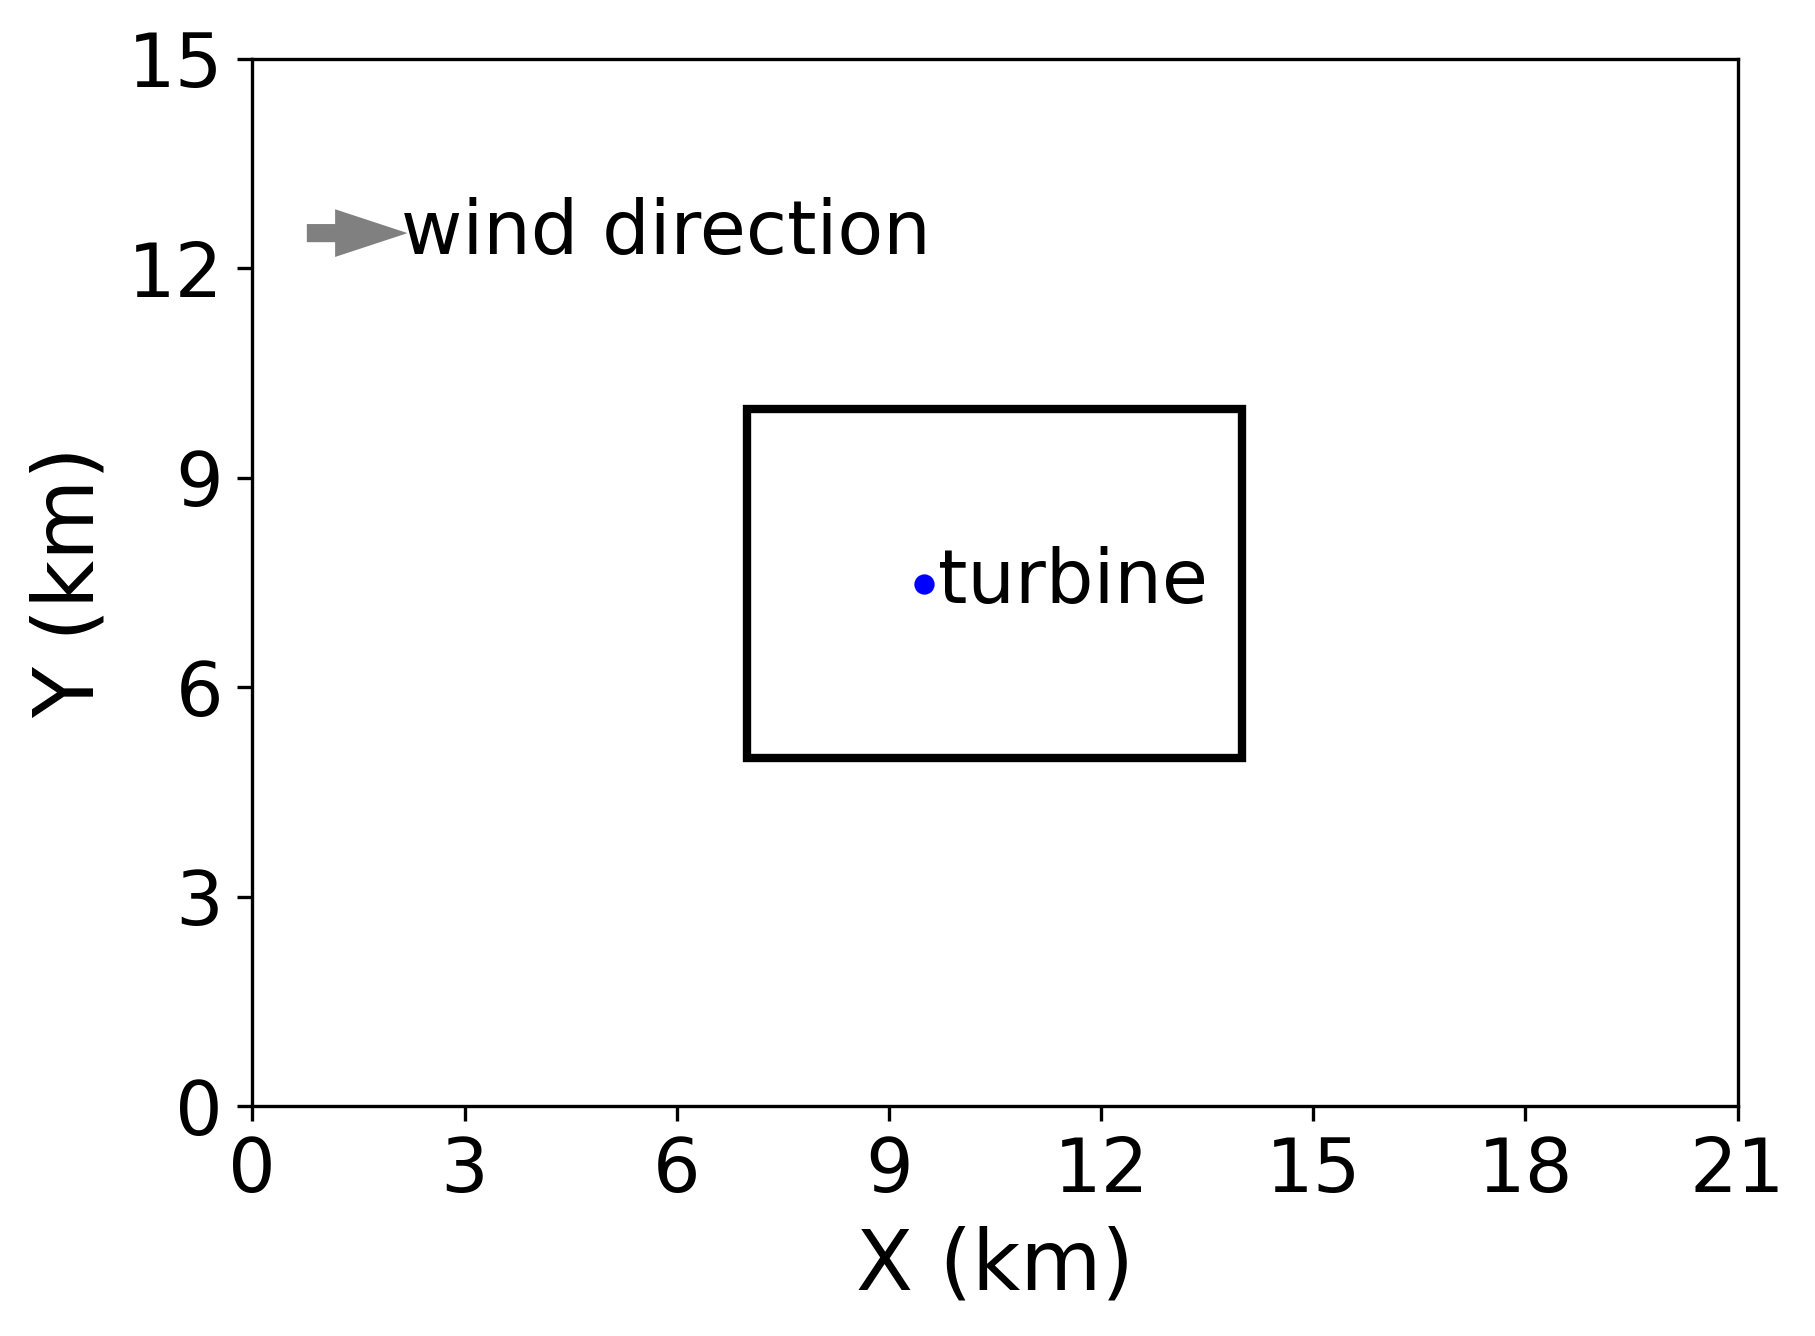
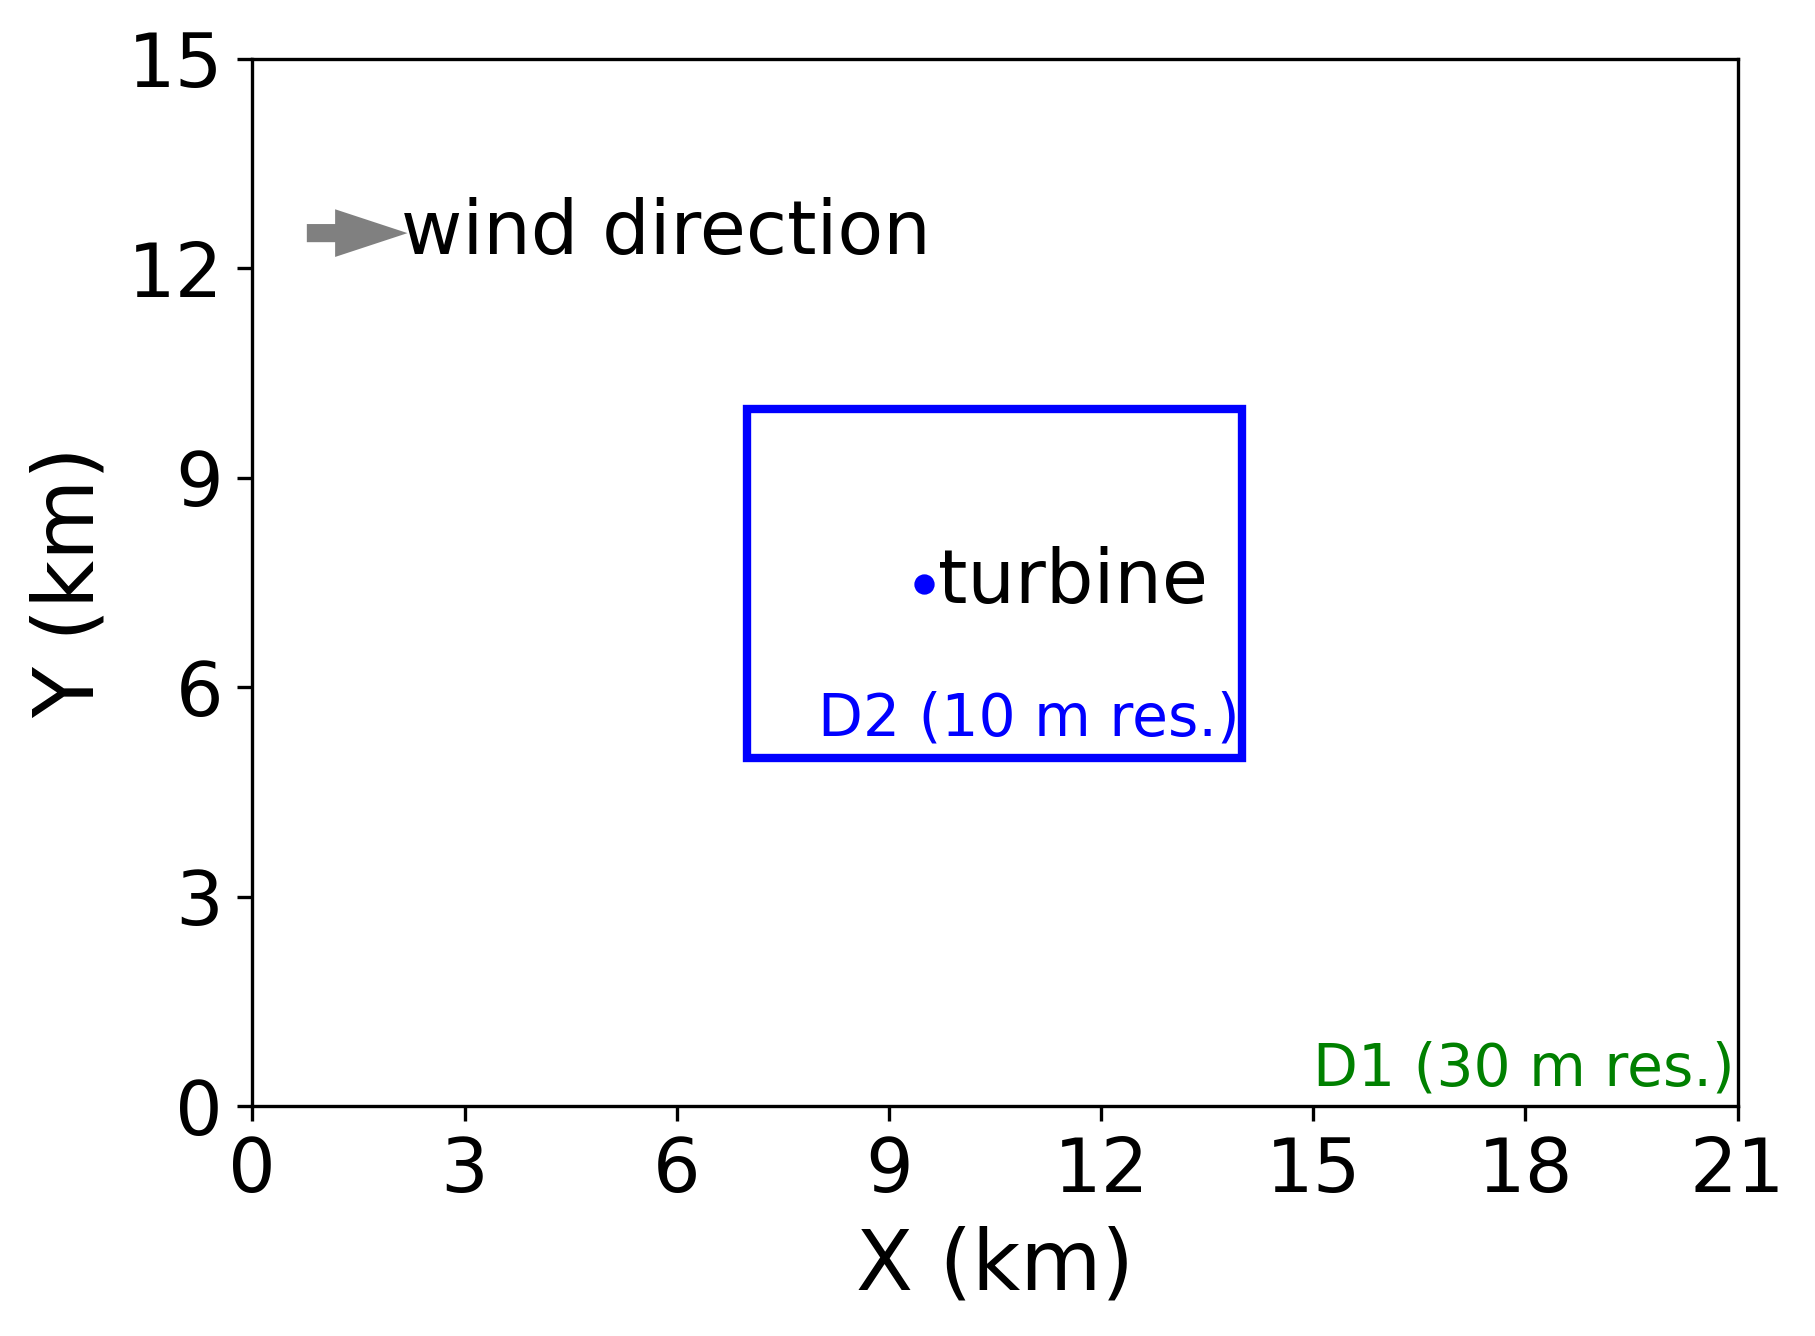
add domain resolution to figure

Changed region(s): [[0.4011, 0.2762, 0.7096, 0.5831], [0.7096, 0.7672, 0.9565, 0.8286]]

diff --git a/plot_domain.py b/plot_domain.py
@@ -11,7 +11,7 @@ plt.scatter([.233 * 30 + 2.5], [.166 * 30 + 2.5], color='blue', s=15, label='tur
 
 ax.tick_params(axis='both', which='major', labelsize=18)
 
-rect = mpatches.Rectangle((.233 * 30, .166 * 30), 7, 5, ec='black', fill=False, linewidth=2)
+rect = mpatches.Rectangle((.233 * 30, .166 * 30), 7, 5, ec='blue', fill=False, linewidth=2)
 ax.add_patch(rect)
 
 plt.arrow(0.8, 12.5, 0.4, 0, width=.2, head_width=.6, color='grey')
@@ -19,6 +19,9 @@ plt.arrow(0.8, 12.5, 0.4, 0, width=.2, head_width=.6, color='grey')
 ax.annotate("wind direction", (2.1, 12.2), fontsize=18)
 
 ax.annotate("turbine", (9.7,7.2), fontsize=18)
+
+ax.annotate("D1 (30 m res.)", (15, .3), fontsize=14, color='green')
+ax.annotate("D2 (10 m res.)", (8, 5.3), fontsize=14, color='blue')
 
 ax.set_xticks(np.arange(0, 22, 3))
 ax.set_yticks(np.arange(0, 16, 3))